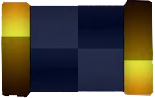
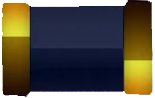
add intro page
add intro page linked to the main and and add sound of begening

diff --git a/style.css b/style.css
@@ -49,7 +49,7 @@
 
     background-image: url("images/question.png");
     background-repeat: no-repeat;
-    background-size: 100% 100%;
+    background-size: 100% 100%; 
     color: #ffffff;
 
     font-size: 1.4rem;
@@ -69,7 +69,7 @@
 
     background-image: url("images/suggestion.png");
     background-repeat: no-repeat;
-    background-size: 100% 100%;
+    background-size: 100% 100%; 
     color: #ffffff;
     transition: 300ms all ease;
 
@@ -78,10 +78,20 @@
  }
 
  .Suggestion:hover {
-    opacity: 0.9;
-    cursor: pointer;
+   width: 290px;
+   height: 55px;
+
+   cursor: pointer;
  }
 #thrSuggestion {
    margin-left: auto;
    margin-right: auto;
+ }
+ p {
+   box-sizing: border-box;
+   padding: 5px;
+
+    background-color: yellow;
+    color: red;
+    font-size: 1.4rem;
  }

diff --git a/intro.html b/intro.html
@@ -1,0 +1,21 @@
+ <!DOCTYPE html>
+ <html lang="en">
+ <head>
+     <meta charset="UTF-8">
+     <meta name="viewport" content="width=device-width, initial-scale=1.0">
+     <meta http-equiv="X-UA-Compatible" content="ie=edge">
+     <title>intro</title>
+     <style>
+         body {
+             height: 100vh;
+
+             background-image: url("images/intro-bg.jpg");
+             background-repeat: no-repeat;
+             background-size: 100% 100%;
+         }
+     </style>
+ </head>
+ <body>
+     <script src="app.js"></script>
+ </body>
+ </html>

diff --git a/index.html b/index.html
@@ -9,6 +9,7 @@
      <link href="https://fonts.googleapis.com/css?family=Lateef|Reem+Kufi" rel="stylesheet">
  </head>
  <body>
+     
      <header></header>
      <main>
          <div class="question" id="question">اظغط للبدا</div>
@@ -21,6 +22,7 @@
          </div>
          
      </main>
+     <p>this game is not original and not for commercial purpose, all rights belong to Echourok TV Foundation</p>
     <script src="app.js"></script>
  </body>
  </html>

diff --git a/app.js b/app.js
@@ -107,11 +107,11 @@ function chooseTrueToo(num,suggestion) {
 
 // RUN IT :
 question.addEventListener("click",()=> {
-    /*first.play();*/
+    first.play();
     setTimeout(()=> {
         pickSuestion(0);
         questionNumber.innerHTML = quiz[0][1];
-    },/*10000*/);
+    },10000);
     
 })
 
